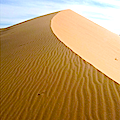
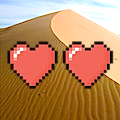
many changes

Changed region(s): [[0.05, 0.325, 0.95, 0.75]]

diff --git a/src/cal_view_controller.rb b/src/cal_view_controller.rb
@@ -19,7 +19,7 @@ class CalViewController < AMScrollingCollectionViewController
 		super
 
 		navigationController.navigationBar.setTranslucent(false)
-		navigationController.navigationBar.setTitleVerticalPositionAdjustment(7, forBarMetrics: UIBarMetricsDefault)
+		# navigationController.navigationBar.setTitleVerticalPositionAdjustment(0, forBarMetrics: UIBarMetricsDefault)
 		followScrollView(collectionView)
 
 		# set up the screen
@@ -29,6 +29,16 @@ class CalViewController < AMScrollingCollectionViewController
 		# about button
 		navigationItem.rightBarButtonItem.setTarget(self)
 		navigationItem.rightBarButtonItem.setAction(:about)
+		hearts =  UIImageView.alloc.initWithImage(UIImage.imageNamed("3hearts"))
+		navigationItem.leftBarButtonItem.customView = hearts
+		# hearts.opaque = false
+		# hearts.layer.opacity = 0.5
+		# hearts.alpha = 0.5
+
+		# navigationItem.titleView = hearts
+		# frame.origin.x = 10;
+		# hearts.frame = frame
+
 		# button = UIButton.buttonWithType(UIButtonTypeRoundedRect)
 		# button.addTarget(self, action: :about, forControlEvents:UIControlEventTouchDown)
 		# button.setTitle("Settings", forState:UIControlStateNormal)
@@ -61,6 +71,13 @@ class CalViewController < AMScrollingCollectionViewController
 		# add the reordering longpress gestures
 		mgr = DragToReorder.new(view, collectionView, @dock_controller, self)
 		addDragManager(mgr, UILongPressGestureRecognizer)
+
+		# pull to refresh
+
+		collectionView.addPullToRefreshWithActionHandler lambda{
+			Event.event_store.refreshSourcesIfNecessary
+    			collectionView.pullToRefreshView.stopAnimating
+		}
 
 		# recognize random single taps
 		@stgr = UITapGestureRecognizer.alloc.initWithTarget(self, action: :singleTap)
@@ -118,7 +135,7 @@ class CalViewController < AMScrollingCollectionViewController
 				  					# title: "Credits",
 				  					type: :web_view,
 				  					row_height: 300,
-				  					value: 
+				  					value:
 						  			"Sand is a calendar app by Joe Edelman, under arrangement with my former startup, Citizen Logistics."+
 						  			"Thanks to Sarah Ismail for giving me some tea while I made this app."+
 						  			"And extra special thanks to Tim Koelkebeck and Jordan Stout for talking with me about calendar interfaces for two years."
@@ -127,7 +144,7 @@ class CalViewController < AMScrollingCollectionViewController
 									# title: "Image Credits",
 									type: :web_view,
 									row_height: 300,
-									value: "images by 
+									value: "images by
 <pre>
 sunshine
 http://www.flickr.com/photos/gigi62/3635592950/
@@ -149,13 +166,13 @@ http://www.flickr.com/photos/sukanto_debnath/
 http://www.flickr.com/photos/sukanto_debnath/530073549
 
 happy hour
-http://www.flickr.com/photos/14646075@N03/ 
+http://www.flickr.com/photos/14646075@N03/
 http://www.flickr.com/photos/14646075@N03/3069089312
 
 quiet
 http://www.flickr.com/photos/h-k-d/5996845093/
 </pre>"
-								}				  				
+								}
 				  			]
 				  		}]
 		  			}
@@ -375,7 +392,7 @@ http://www.flickr.com/photos/h-k-d/5996845093/
 			alert = BW::UIAlertView.plain_text_input(:title => "Do what?") do |alert|
 				cb.call nil, alert.plain_text_field.text
 			end
-			alert.show			
+			alert.show
 		else
 			cb.call(nil, text)
 		end

diff --git a/src/affair_controller.rb b/src/affair_controller.rb
@@ -24,6 +24,12 @@ class AffairController < UIViewController
 	def detailsView;    view.viewWithTag(307); end
 	def locationButton; view.viewWithTag(308); end
 	def urlButton;      view.viewWithTag(309); end
+
+
+	def reviewButton;      view.viewWithTag(321); end
+	def timerButton;      view.viewWithTag(322); end
+
+
 	# def closeButton;    view.viewWithTag(310); end
 
 	def self.instance
@@ -84,10 +90,15 @@ class AffairController < UIViewController
 		timeLabel.delegate = self
 		timeLabel.dataSource = self
 		timeLabel.itemFont = UIFont.boldSystemFontOfSize(12.0)
-		timeLabel.peekInset = UIEdgeInsetsMake(0, 8, 0, 8)
+		# timeLabel.peekInset = UIEdgeInsetsMake(0, 8, 0, 8)
 		# timeLabel.rowIndent = 10.0
 		timeLabel.showGlass = true
+
+
 		timeLabel.gestureRecognizers[0].addTarget(self, action: :timer_menu)
+		timerButton.addTarget(self, action: :show_timer_menu, forControlEvents: UIControlEventTouchUpInside)
+		reviewButton.addTarget(self, action: :show_review_menu, forControlEvents: UIControlEventTouchUpInside)
+
 
 		# set up actions
 		# closeButton.addTarget(self, action: :hide_animated, forControlEvents: UIControlEventTouchUpInside)
@@ -129,24 +140,36 @@ class AffairController < UIViewController
 		layout
 	end
 
+	def show_timer_menu
+		UI.menu ["Start a 5m timer", "Start a 10m timer", "Start a 20m timer", "Start a 30m timer"] do |chose|
+			next unless chose =~ /(\d+(m|s))/
+			dur = $1
+			event.title = if event.title =~ /^\d+(m|s) (.*)/
+				"#{dur} #{$2}"
+			else
+				"#{dur} #{event.title}"
+			end
+
+			Event.save(event)
+			event.reset_timer
+			event.start_stop_timer @superdelegate
+			@superdelegate.redraw(event)
+			hide_animated
+		end
+	end
+
+	def show_review_menu
+		UI.menu ["It was good", "Waste of time", "Reschedule", "Skip"] do |chose|
+			# do some stuff
+			@superdelegate.redraw(event)
+			hide_animated
+		end
+	end
+
 	def timer_menu gr = nil
 		case gr.state
 		when UIGestureRecognizerStateBegan
-			UI.menu ["Start a 5m timer", "Start a 10m timer", "Start a 20m timer", "Start a 30m timer"] do |chose|
-				next unless chose =~ /(\d+(m|s))/
-				dur = $1
-				event.title = if event.title =~ /^\d+(m|s) (.*)/
-					"#{dur} #{$2}"
-				else
-					"#{dur} #{event.title}"
-				end
-
-				Event.save(event)
-				event.reset_timer
-				event.start_stop_timer @superdelegate
-				@superdelegate.redraw(event)
-				hide_animated
-			end
+			show_timer_menu
 		end
 	end
 
@@ -258,8 +281,8 @@ class AffairController < UIViewController
 		event.endDate += offset
 		Event.save(event)
 		@superdelegate.redraw(event)
-		timeLabel.reloadData
-		timeLabel.selectItemAtIndex(8, animated: false)
+		# timeLabel.reloadData
+		# timeLabel.selectItemAtIndex(8, animated: false)
 	end
 
 	def layout

diff --git a/src/dock_controller.rb b/src/dock_controller.rb
@@ -55,8 +55,10 @@ class DockController < UICollectionViewController
 		# sandClear = UIColor.colorWithHue(0.12, saturation:0.62, brightness:0.7, alpha:0.6)
 		# startColor = UIColor.colorWithHue(0.12, saturation:0.32, brightness:0.28, alpha:0.95)
 
-		sandClear = UIColor.colorWithHue(0.12, saturation:0.0, brightness:0.7, alpha:0.6)
-		startColor = UIColor.colorWithHue(0.12, saturation:0.0, brightness:0.28, alpha:0.95)
+		#sandClear = UIColor.colorWithHue(0.12, saturation:0.0, brightness:0.7, alpha:0.6)
+		#startColor = UIColor.colorWithHue(0.12, saturation:0.0, brightness:0.28, alpha:0.95)
+		sandClear = UIColor.colorWithHue(0.12, saturation:0.0, brightness:1.0, alpha:0.8)
+		startColor = UIColor.colorWithHue(0.12, saturation:0.0, brightness:1.0, alpha:1.0)
 
 		# UIColor.colorWithWhite(0.9, alpha: 1.0)
 		# gradient.colors = [startColor.CGColor, sandClear.CGColor]
@@ -78,7 +80,7 @@ class DockController < UICollectionViewController
 			path = collectionView.indexPathForItemAtPoint(pt)
 			cell = path && collectionView.cellForItemAtIndexPath(path)
 			return unless cell
-			if cell.system_item == 'upcarret'
+			if cell.system_item
 				go_to_url nil, "http://nxhx.org/hourglass/"
 			elsif cell.dock_item.store_url
 				NSLog "going to: %@", cell.dock_item.store_url
@@ -139,7 +141,7 @@ class DockController < UICollectionViewController
 	end
 
 	def collectionView(cv, numberOfItemsInSection: section)
-		DockItem.visible.size + 2
+		DockItem.visible.size + 1
 	end
 
 	def collectionView(cv, cellForItemAtIndexPath: path)
@@ -149,8 +151,6 @@ class DockController < UICollectionViewController
 		case path.row
 		when 0
 			cell.system_item = "appt"
-		when extras.size + 1
-			cell.system_item = "upcarret"
 		else
 			cell.dock_item = extras[path.row - 1]
 		end

diff --git a/src/appointment_cell.rb b/src/appointment_cell.rb
@@ -42,17 +42,28 @@ class AppointmentCell < UICollectionViewCell
 	def update_timer_label seconds_remaining
 		return kill_timer_label unless seconds_remaining
 		@timer_label ||= begin
-			label = UILabel.alloc.initWithFrame(CGRectMake(0, 12, bounds.width, 30))
-			label.textColor = UIColor.redColor
+			label = UILabel.alloc.initWithFrame(CGRectMake(15, 32, bounds.width - 30, 20))
+			label.font = UIFont.systemFontOfSize(13)
+			label.backgroundColor =  UIColor.colorWithHue(0.0, saturation:0.00, brightness:0.0, alpha:0.5)
+			label.textColor = UIColor.colorWithHue(0.0, saturation:0.5, brightness:1.0, alpha:1.0)
+			label.layer.cornerRadius = 7
+			label.layer.masksToBounds = true
+
+			label.layer.shadowOpacity = 1.0;   
+			label.layer.shadowRadius = 0.0;
+			label.layer.shadowColor = UIColor.whiteColor.CGColor
+			label.layer.shadowOffset = CGSizeMake(0.0, -1.0)
+
 			label.textAlignment = NSTextAlignmentCenter
 			contentView.addSubview(label)
 			label
 		end
-		if seconds_remaining > 100
-			@timer_label.text = "#{(seconds_remaining / 60).to_i}m";
-		else
-			@timer_label.text = "#{seconds_remaining}s"
-		end
+		@timer_label.text = Time.at(seconds_remaining).utc.strftime("%M:%S")
+		# if seconds_remaining > 100
+		# 	@timer_label.text = "#{(seconds_remaining / 60).to_i}m";
+		# else
+		# 	@timer_label.text = "#{seconds_remaining}s"
+		# end
 	end
 
 

diff --git a/src/drag/drag_up_to_add.rb b/src/drag/drag_up_to_add.rb
@@ -3,8 +3,8 @@ class DragUpToAdd < CalDragManager
 	def gestureRecognizerShouldBegin(gr)
 		return false unless @vc.drag_up_from_dock_enabled?
 		vel = @gr.velocityInView(@dock)
-        return false unless vel.x.abs < 2*vel.y.abs and inside_dock?
-        position = gr.locationInView(@dock)
+		return false unless vel.x.abs < 2*vel.y.abs and inside_dock?
+		position = gr.locationInView(@dock)
 		translation = @gr.translationInView(@dock)
 		origin = CGPointMake(position.x - translation.x, position.y - translation.y)
 		@dock_path = @dock.indexPathForItemAtPoint(origin)
@@ -14,16 +14,16 @@ class DragUpToAdd < CalDragManager
 		cell = @dock.cellForItemAtIndexPath(@dock_path)
 		@text = cell.contentView.viewWithTag(102).text
 		@dock_item = cell.dock_item
-		return true unless @text =~ /upcarret/
+		return true # unless @text =~ /appt/
 
-		UI.menu ["Get DockItems"] do |chose|
-			case chose
-			when /Get/
-				@dock_controller.go_to_url nil, "http://nxhx.org/hourglass/"
-			end
-		end
+		# UI.menu ["Get DockItems"] do |chose|
+		# 	case chose
+		# 	when /Get/
+		# 		@dock_controller.go_to_url nil, "http://nxhx.org/hourglass/"
+		# 	end
+		# end
 
-		return false
+		# return false
 	end
 
 	def on_drag_started

diff --git a/src/appointment.rb b/src/appointment.rb
@@ -134,7 +134,7 @@ class EKEvent
 				fetch_facebook_image(callback)
 				return default_image
 
-			elsif organizer and not organizer.isCurrentUser and record = organizer.ABRecordWithAddressBook(AddressBook.address_book)
+			elsif organizer and not organizer.isCurrentUser and record = organizer.ABRecordWithAddressBook(AddressBook.address_book) and record.respond_to? :uniqueId
 				# do we already have an image of the guy?
 		    	if self.record!.image = Image.find_by_ab_record_id(record.uniqueId)
 		    		friend_record = Friend.find_by_ab_record_id(person.uid)
@@ -261,7 +261,7 @@ class EKEvent
 
 		@notification = UILocalNotification.alloc.init
 		@notification.fireDate = @end_time
-		@notification.alertBody = 'Done'
+		@notification.alertBody = title || 'Timer Done'
 		@notification.soundName = UILocalNotificationDefaultSoundName
 		UIApplication.sharedApplication.scheduleLocalNotification @notification
 		@timer = NSTimer.scheduledTimerWithTimeInterval(1.0, target: self, selector: :update_timer, userInfo: nil, repeats: true)

diff --git a/src/dock_item_cell.rb b/src/dock_item_cell.rb
@@ -38,7 +38,6 @@ class DockItemCell < UICollectionViewCell
 		label.text = labeltext
 		imageview.image = case labeltext
 		when /appt/;   UIImage.imageNamed('plus.png')
-		when /upcarret/;   UIImage.imageNamed('moreicon.png')
 		end
 
 		label.hidden = true
